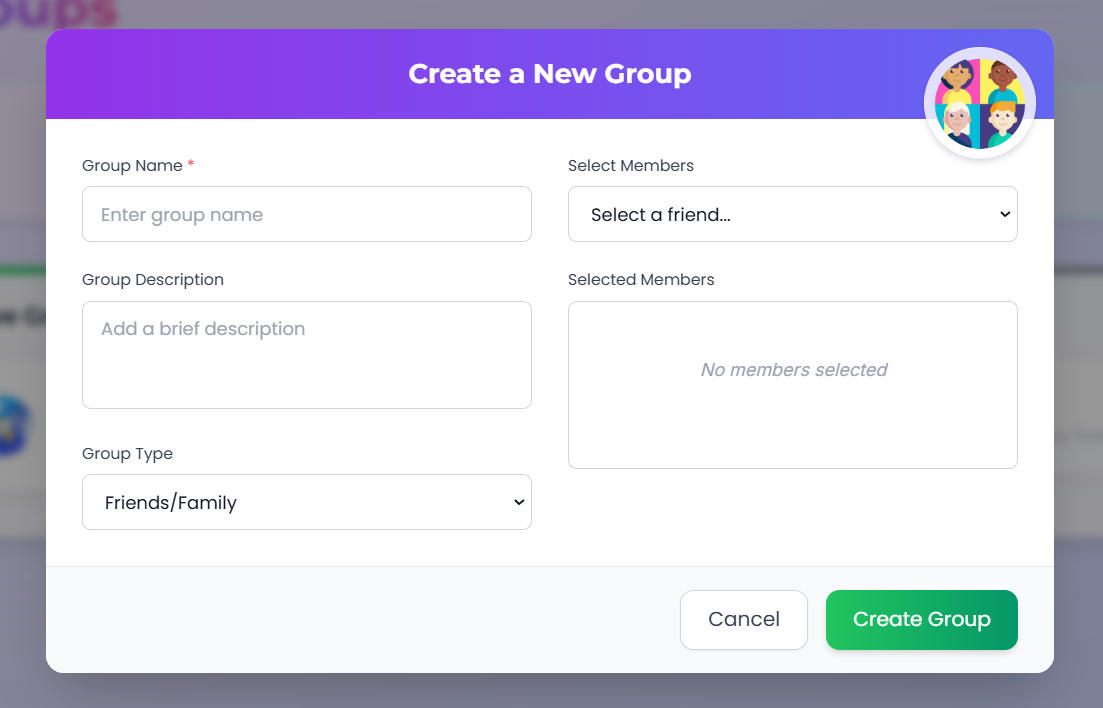
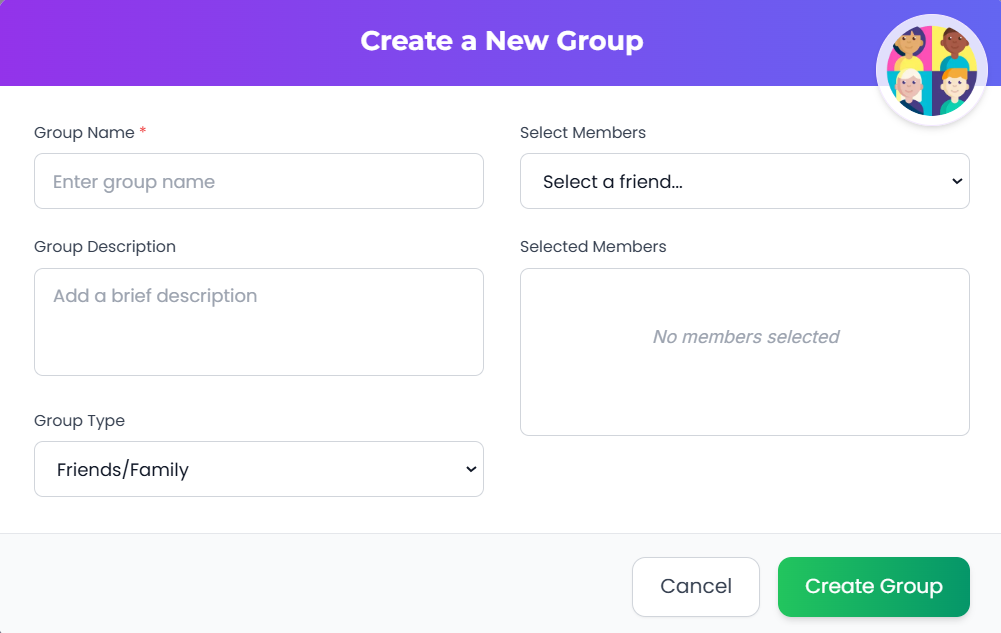
Home page fix

diff --git a/app/groups/page.tsx b/app/groups/page.tsx
@@ -816,14 +816,14 @@ export default function Groups() {
                   text="Cancel"
                   onClick={() => setIsModalOpen(false)}
                   variant="secondary"
-                  size="lg"
+                  size="md"
                   className="font-medium"
                 />
                 <Button
                   text="Create Group"
                   onClick={handleAddGroup}
                   variant="success"
-                  size="lg"
+                  size="md"
                   className="font-medium"
                 />
               </div>
